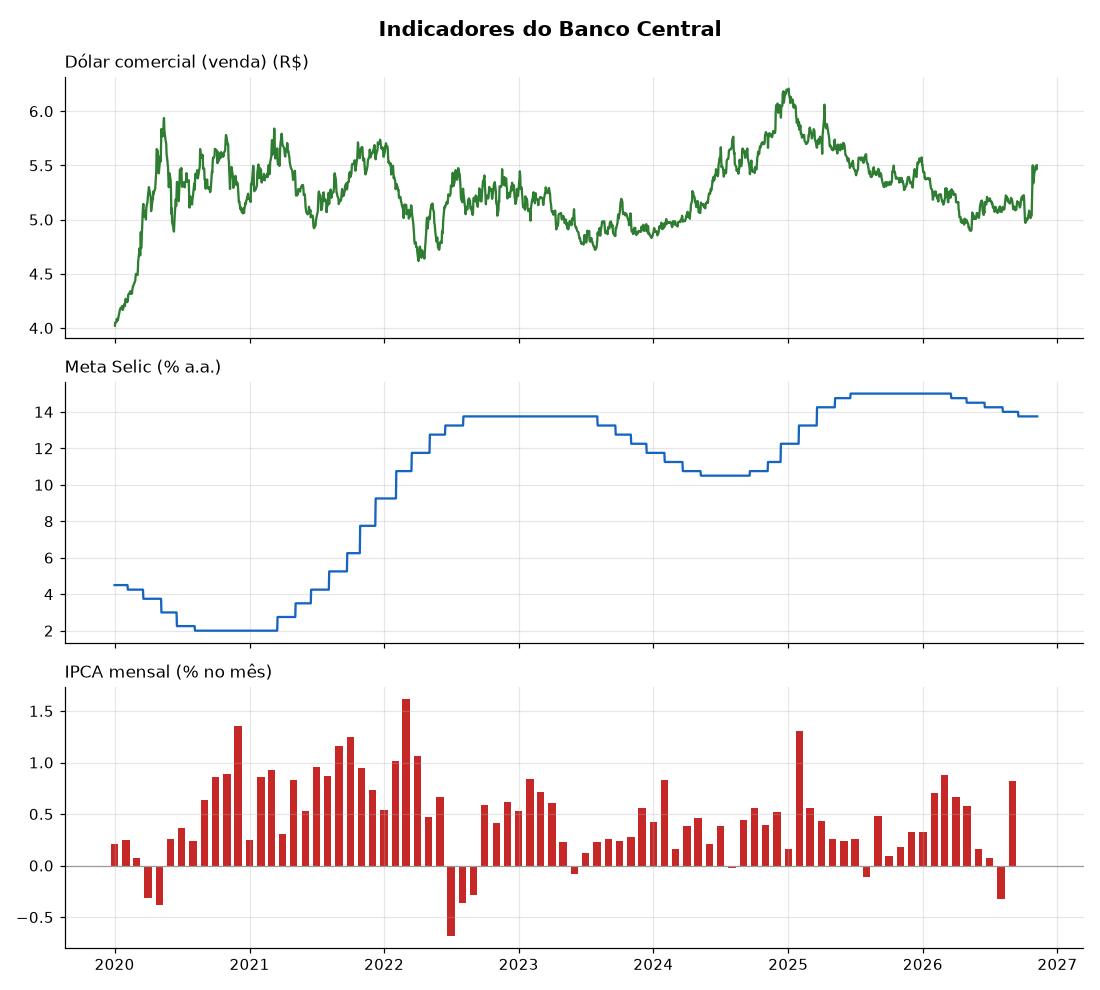
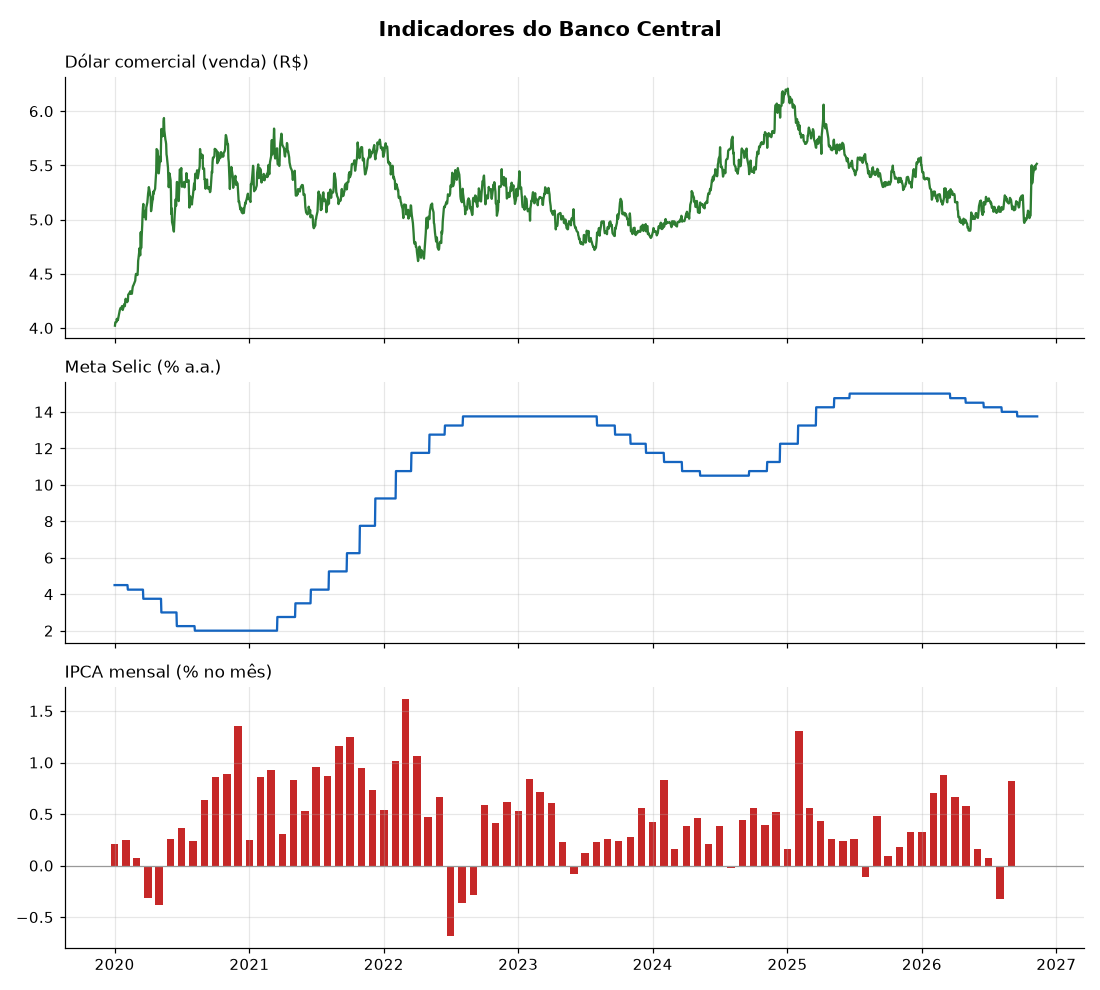
dados: atualização de 10/11/2026

diff --git a/README.md b/README.md
@@ -11,8 +11,8 @@ Fiz pra praticar o básico de engenharia de dados (extrair, tratar, carregar e a
 <!-- inicio-indicadores -->
 | Indicador | Último valor | Data |
 |---|---|---|
-| Dólar comercial (venda) | R$ 5,5013 | 06/11/2026 |
-| Meta Selic | 13,75 % a.a. | 07/11/2026 |
+| Dólar comercial (venda) | R$ 5,5146 | 09/11/2026 |
+| Meta Selic | 13,75 % a.a. | 10/11/2026 |
 | IPCA mensal | 0,82 % no mês | 09/2026 |
 <!-- fim-indicadores -->
 
